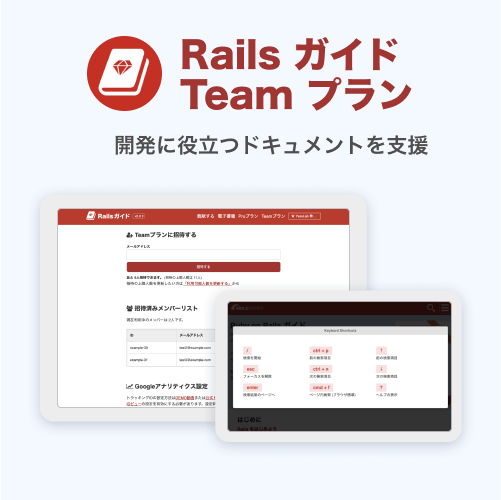
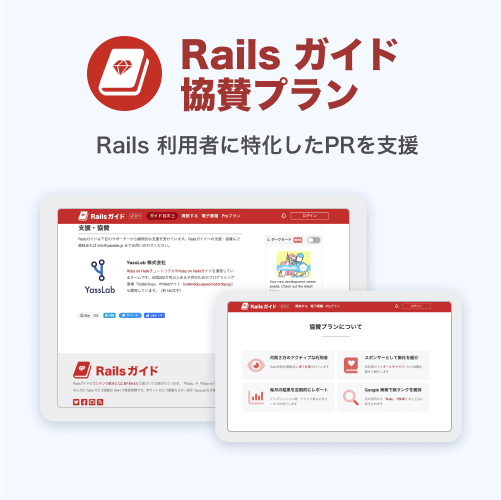
協賛プランに変更した

diff --git a/_includes/services_for_team.html b/_includes/services_for_team.html
@@ -21,15 +21,15 @@
       </ul>
       <p><b>教育事業を支援</b>するサービスです。教育機関や非営利法人、民間の事業者向けに１万人以上が利用するコンテンツを提供します。</p>
     </a>
-    <a href="https://railsguides.jp/team" class="service-business-one" id="guides" target="_blank" rel="noopener">
-      <img src="/img/spinner.svg" data-src="/img/thumbnail-guides-team.png" alt="Railsガイド Teamプラン" class="lazyload">
-      <h3>Railsガイド Teamプラン</h3>
+    <a href="https://railsguides.jp/sponsors" class="service-business-one" id="guides" target="_blank" rel="noopener">
+      <img src="/img/spinner.svg" data-src="/img/thumbnail-guides-team.png" alt="Railsガイド 協賛プラン" class="lazyload">
+      <h3>Railsガイド 協賛プラン</h3>
       <ul>
-	<li>Web開発チーム向け</li>
-        <li>全文検索などに対応</li>
-        <li>人数に応じた月額利用</li>
+        <li>協賛によるPRを利用する方向け</li>
+        <li>スポンサーとして紹介</li>
+        <li>結果を定期的にレポート</li>
       </ul>
-      <p><b>チーム開発を支援</b>するサービスです。1,600ページ以上ある大型コンテンツ『Railsガイド』をチームでご活用いただけます。</p>
+      <p><b>協賛企業のPRを支援</b>するサービスです。Rails学習者/開発者に多く利用されている『Railsガイド』で協賛企業をご紹介します。</p>
     </a>
   </div>
 </section>
